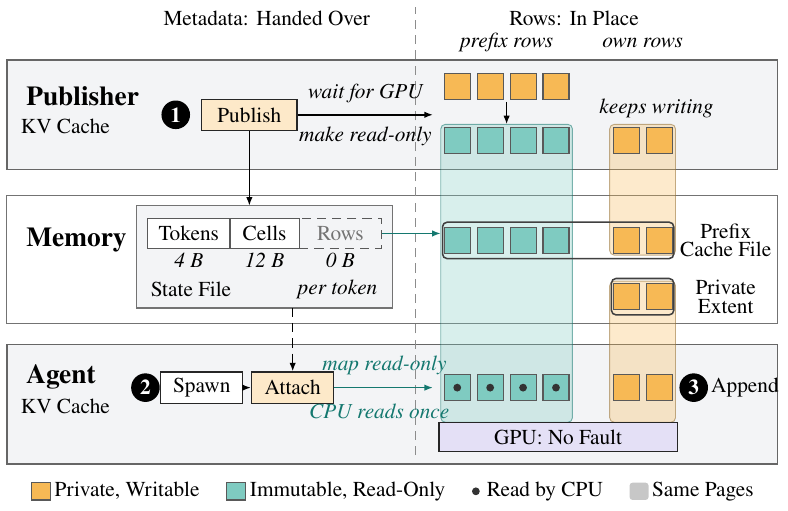
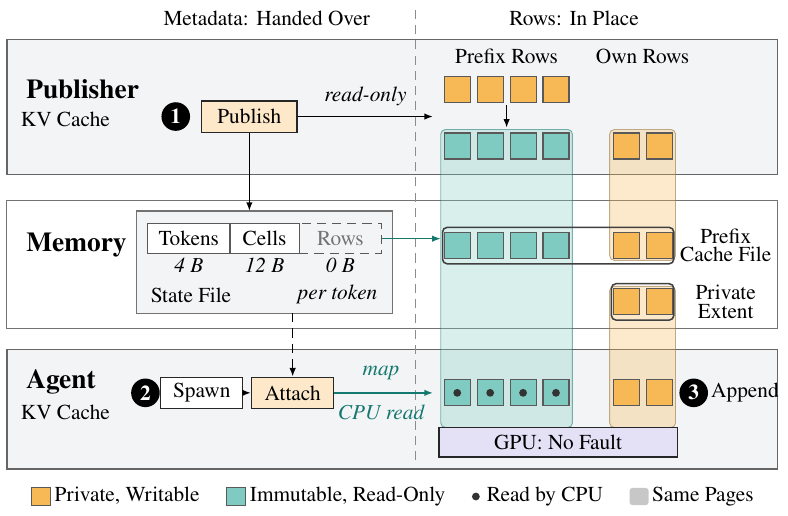
Publish-and-attach figure: column names inside the publisher box and one short note per arrow

diff --git a/figures/src/design_lifecycle.tex b/figures/src/design_lifecycle.tex
@@ -16,21 +16,21 @@
   flag/.style={circle, fill=black!80, inner sep=0pt, minimum size=0.09cm}]
 
 % lanes
-\draw[layer] (0,4.02) rectangle (8.9,5.28);
+\draw[layer] (0,4.02) rectangle (8.9,5.58);
 \draw[sub, fill=white] (0,2.24) rectangle (8.9,3.72);
 \draw[layer] (0,0.62) rectangle (8.9,2.0);
-\node[ttl, anchor=west] at (0.1,4.86) {Publisher};
-\node[tag, anchor=west] at (0.12,4.52) {KV Cache};
+\node[ttl, anchor=west] at (0.1,5.0) {Publisher};
+\node[tag, anchor=west] at (0.12,4.66) {KV Cache};
 \node[ttl, anchor=west] at (0.1,3.2) {Memory};
 \node[ttl, anchor=west] at (0.1,1.62) {Agent};
 \node[tag, anchor=west] at (0.12,1.28) {KV Cache};
 
 % what is handed over, and what stays in place: the prefix and the private extent
-\draw[black!45, line width=0.3pt, densely dashed] (4.72,0.72) -- (4.72,5.9);
-\node[tag] at (3.0,5.76) {Metadata: Handed Over};
-\node[tag] at (6.55,5.76) {Rows: In Place};
-\node[note] at (5.77,5.48) {prefix rows};
-\node[note] at (7.34,5.48) {own rows};
+\draw[black!45, line width=0.3pt, densely dashed] (4.72,0.72) -- (4.72,5.96);
+\node[tag] at (3.0,5.82) {Metadata: Handed Over};
+\node[tag] at (6.55,5.82) {Rows: In Place};
+\node[tag] at (5.77,5.38) {Prefix Rows};
+\node[tag] at (7.34,5.38) {Own Rows};
 
 % a band joins the rows of a KV cache with the pages behind them
 \newcommand{\band}[6]{\filldraw[fill=#1, fill opacity=0.3, draw=#6, draw opacity=0.55, line width=0.3pt, rounded corners=1.5pt] (#2,#3) rectangle (#4,#5);}
@@ -41,13 +41,13 @@
 % ---------------- the rows ----------------
 % the prefix of the publisher: writable while it computes, read-only after
 \foreach \k in {0,...,3} {
-  \node[pte, fill=tailc] at (5.2+\k*0.38,4.98) {};
+  \node[pte, fill=tailc] at (5.2+\k*0.38,5.0) {};
   \node[pte, fill=sharedc] at (5.2+\k*0.38,4.35) {};
   \node[pte, fill=sharedc] at (5.2+\k*0.38,3.2) {};
   \node[pte, fill=sharedc] (d\k) at (5.2+\k*0.38,1.5) {};
   \node[flag] at (d\k) {};
 }
-\draw[tiny] (5.77,4.8) -- (5.77,4.54);
+\draw[tiny] (5.77,4.82) -- (5.77,4.56);
 \foreach \k in {0,1} {
   % the rows that the publisher writes after the fork, and their pages
   \node[pte, fill=tailc] at (7.15+\k*0.38,4.35) {};
@@ -56,7 +56,6 @@
   \node[pte, fill=tailc] at (7.15+\k*0.38,2.55) {};
   \node[pte, fill=tailc] at (7.15+\k*0.38,1.5) {};
 }
-\node[note] at (7.5,4.72) {keeps writing};
 % the cache file holds the prefix and the rows that the publisher writes after it;
 % the rows of the agent lie in its private extent
 \draw[black!75, line width=0.5pt, rounded corners=1.5pt] (5.03,2.99) rectangle (7.7,3.41);
@@ -65,11 +64,10 @@
 \node[tag, align=center] at (8.3,2.55) {Private\\[-2pt]Extent};
 
 % ---------------- the metadata ----------------
-\node[num] at (1.95,4.65) {1};
-\node[comp, fill=actc, minimum width=1.1cm, minimum height=0.36cm, inner ysep=0pt] (publish) at (2.8,4.65) {Publish};
-\draw[tiny] (publish.east) -- (4.92,4.65);
-\node[note] at (4.14,4.9) {wait for GPU};
-\node[note] at (4.14,4.4) {make read-only};
+\node[num] at (1.95,4.69) {1};
+\node[comp, fill=actc, minimum width=1.1cm, minimum height=0.36cm, inner ysep=0pt] (publish) at (2.8,4.69) {Publish};
+\draw[tiny] (publish.east) -- (4.92,4.69);
+\node[note] at (4.14,4.92) {read-only};
 
 % the state file: the tokens and the cells of the prefix, and no rows
 \draw[sub, fill=panel] (1.5,2.42) rectangle (4.45,3.6);
@@ -90,8 +88,8 @@
 \draw[tiny] (spawn) -- (attach);
 \draw[tiny, densely dashed] (3.3,2.42) -- (attach.north);
 \draw[tiny, roline] (attach.east) -- (4.92,1.5);
-\node[note, text=roline] at (4.36,1.76) {map read-only};
-\node[note, text=roline] at (4.3,1.22) {CPU reads once};
+\node[note, text=roline] at (4.32,1.73) {map};
+\node[note, text=roline] at (4.32,1.27) {CPU read};
 
 % the agent appends in pages of its own; the GPU takes no fault on either kind
 \node[num] at (7.93,1.5) {3};
